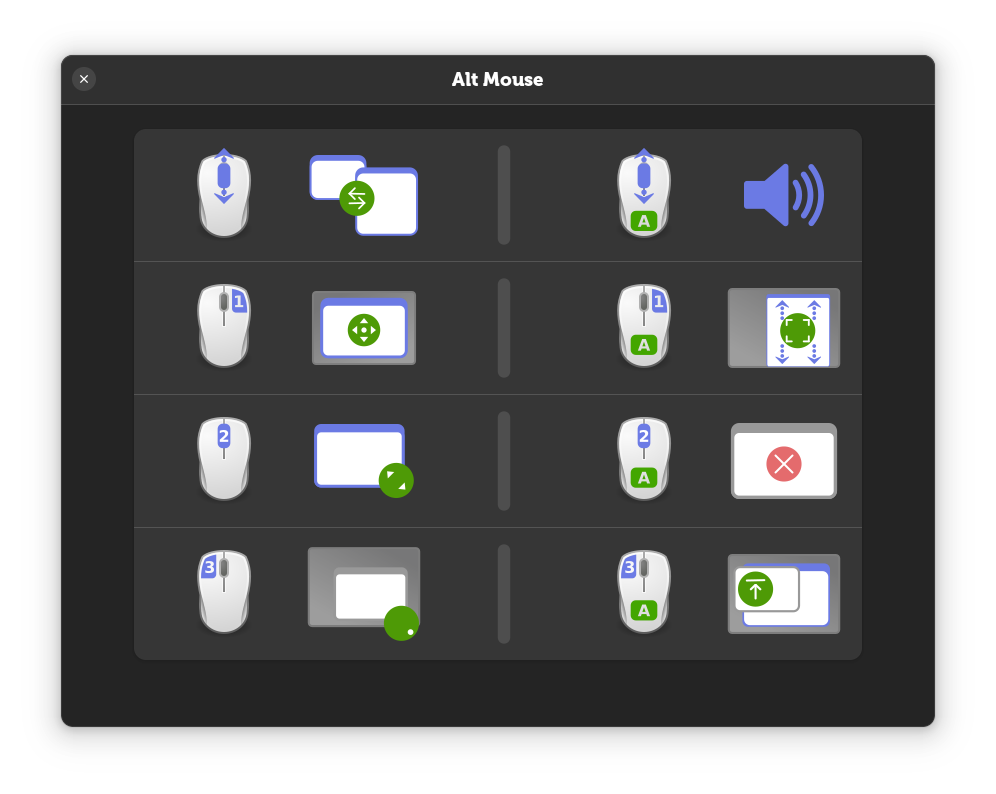
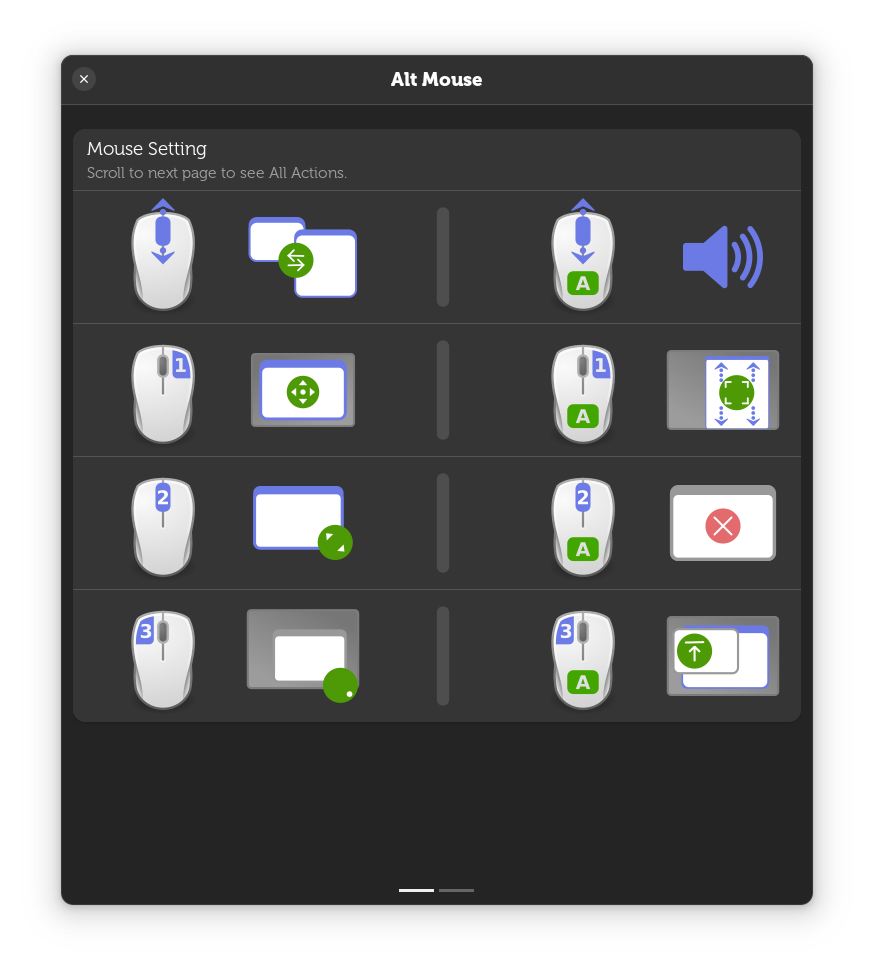
README.md

diff --git a/README.md b/README.md
@@ -20,4 +20,5 @@ Alt + panel/desktop|volume|max(VERTICAL)|close|above
 
 > Add `Top-Left` and `Top-Right` corner as hot coner.
 
-![prefs](screenshot.png)
+![prefs-set](screenshot.png)
+![prefs-act](screenshot1.png)
